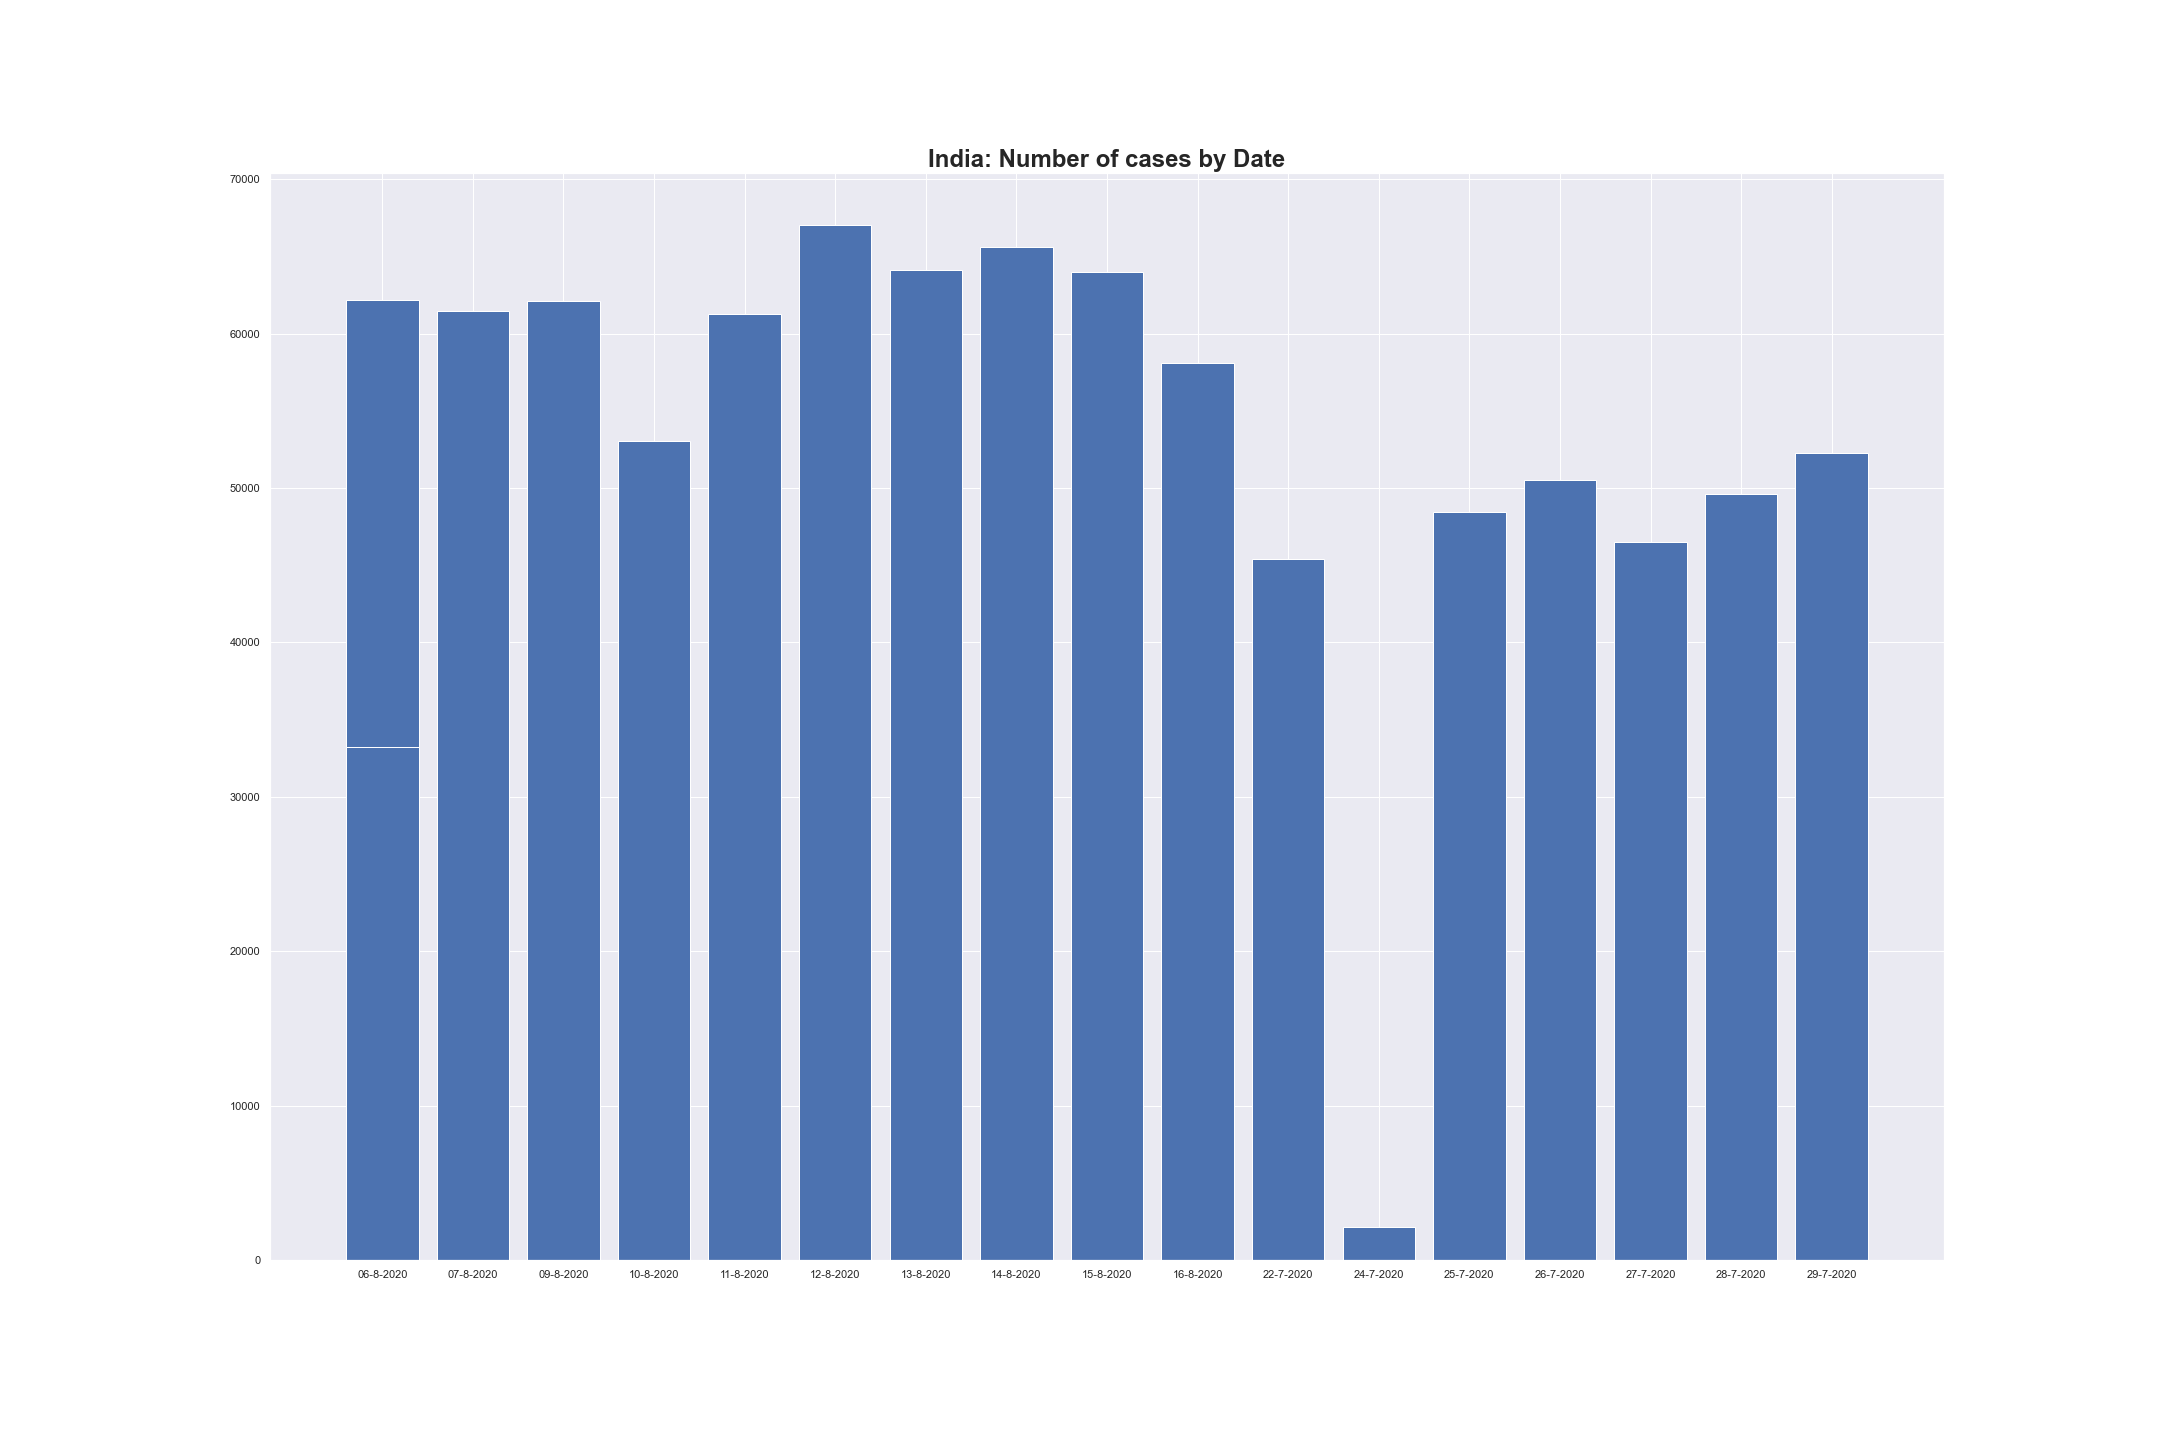
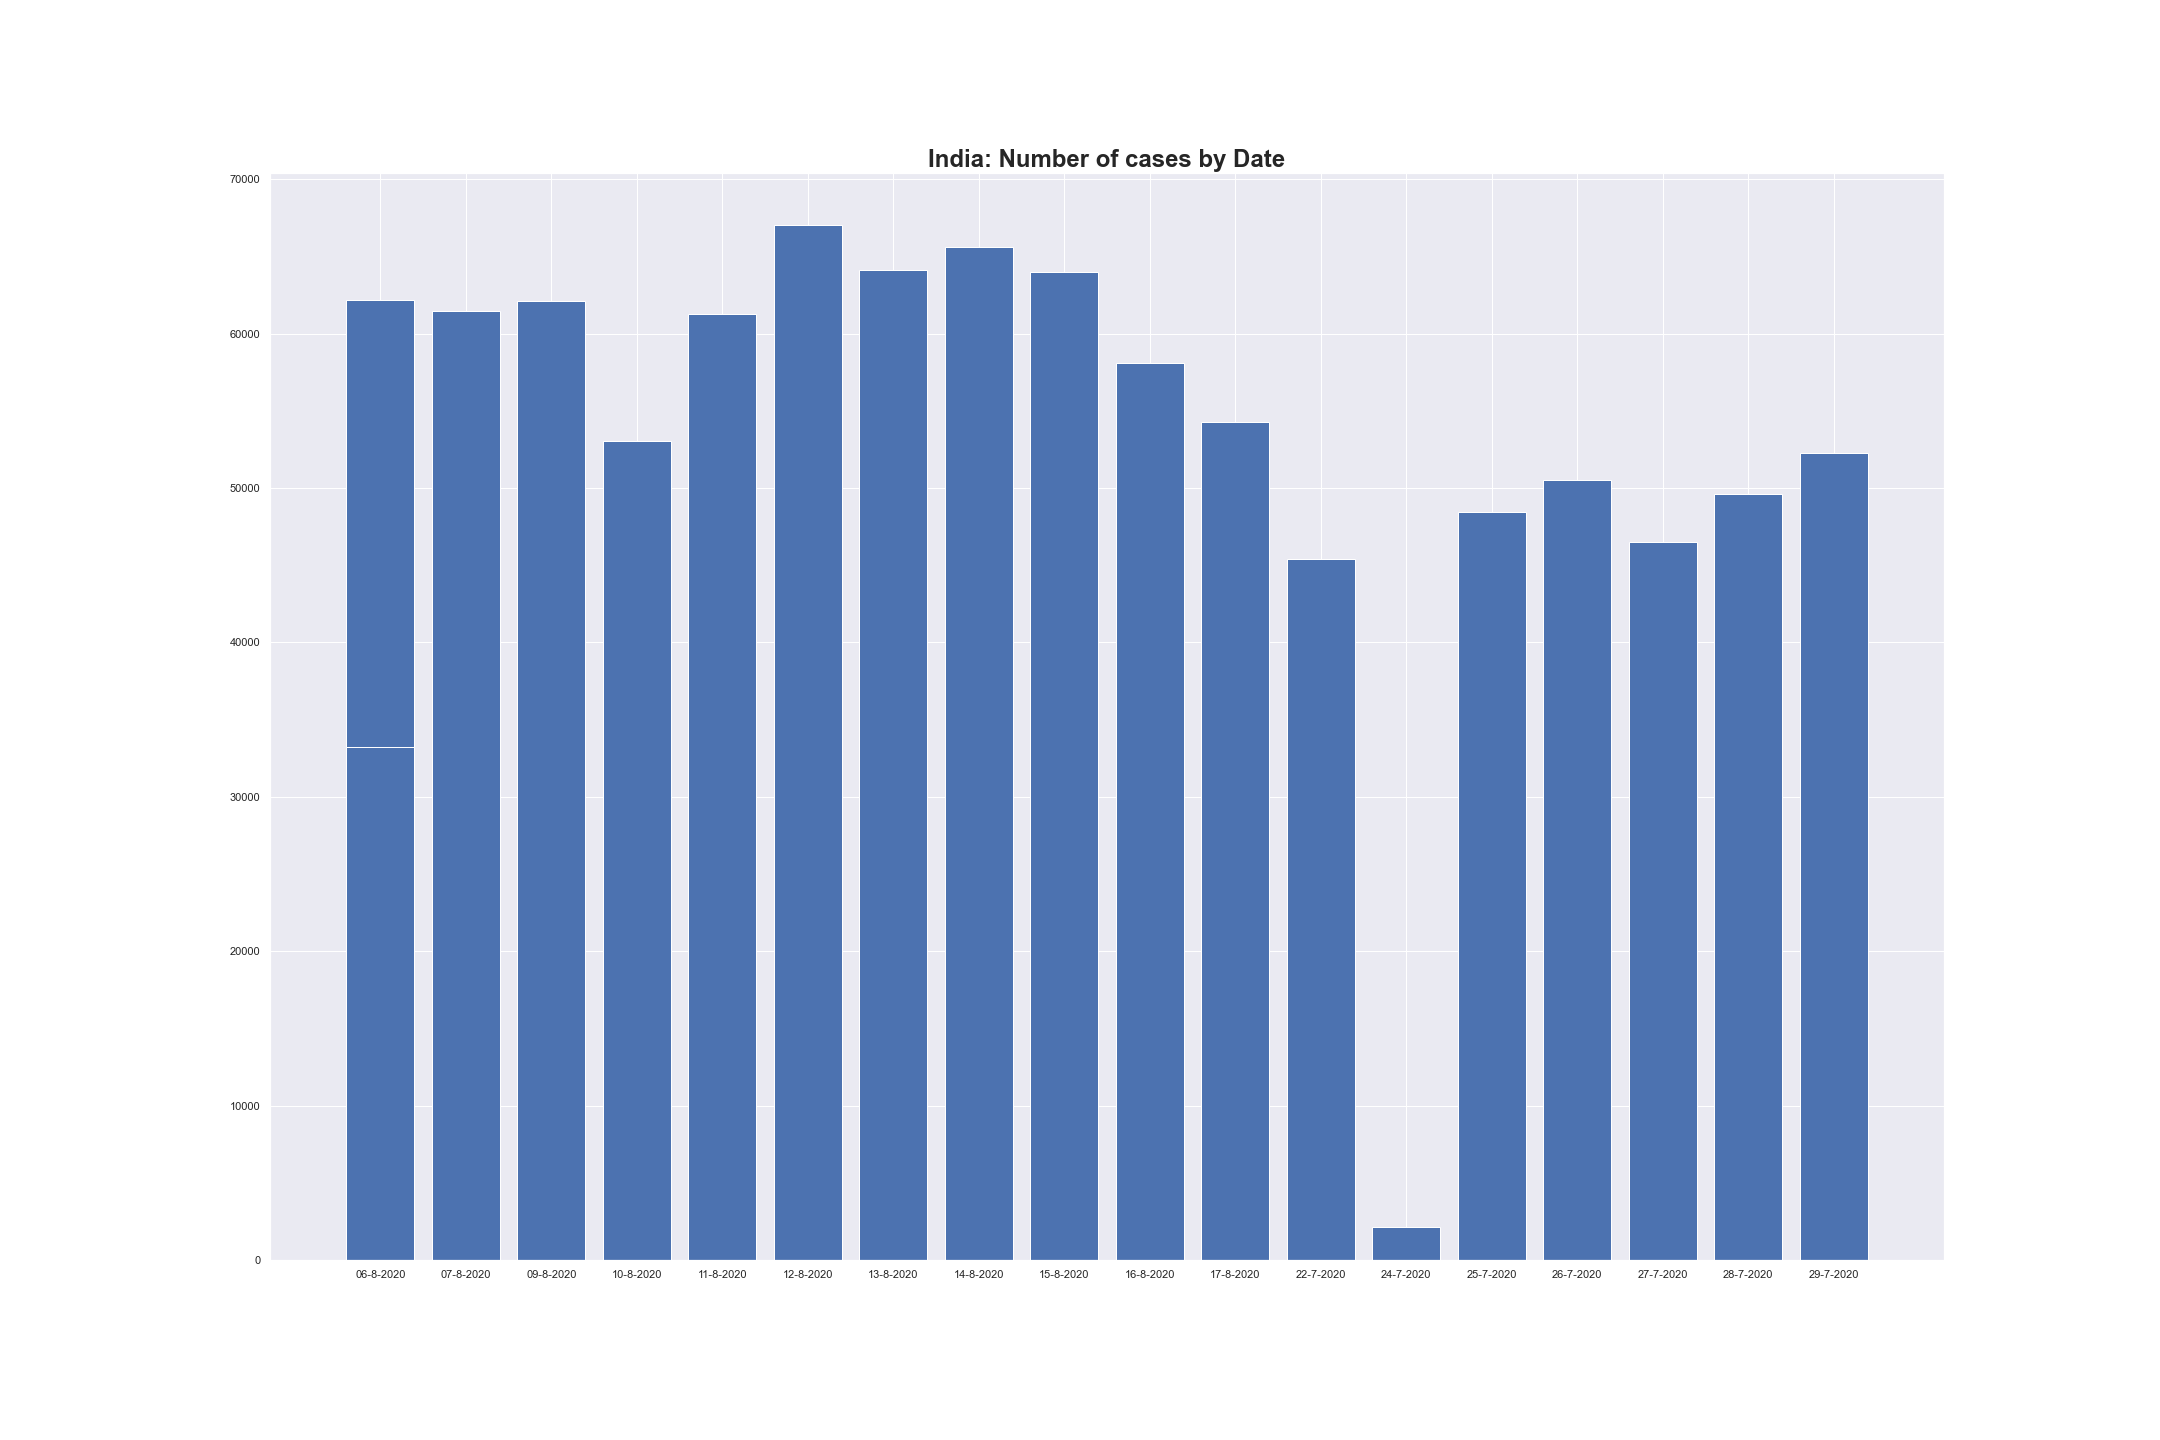
New Bar plot added

Changed region(s): [[0.1861, 0.1562, 0.8375, 0.9062]]

diff --git a/README.md b/README.md
@@ -1,2 +1,5 @@
 # COVID - Trouble
 Daily records of the COVID cases is being scrapped from [WorldMeter](https://www.worldometers.info/coronavirus/) and updated onto this git repo. This repo is automatically updated everyday at 5 AM (IST) or 2330 (GMT).
+
+## Number of new cases in INDIA
+![Bar Plot India](Indiacases.png)
